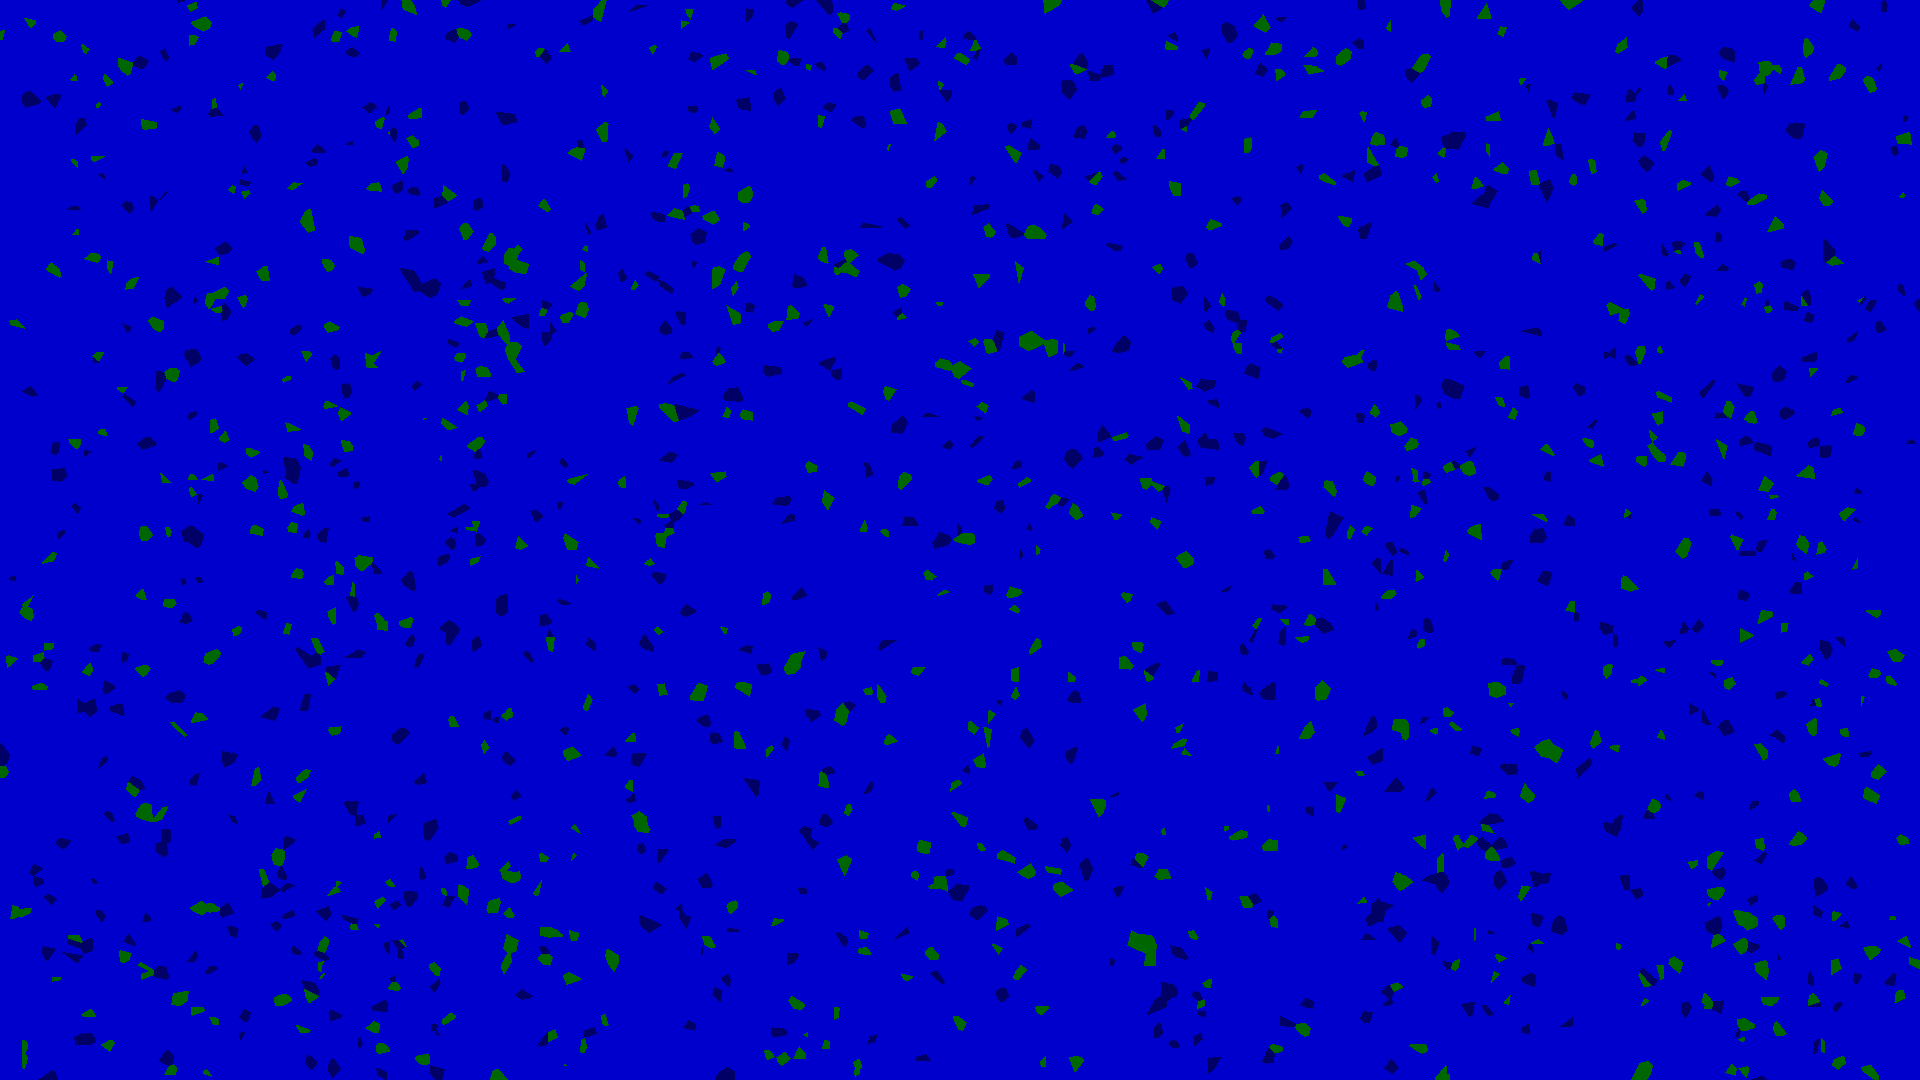
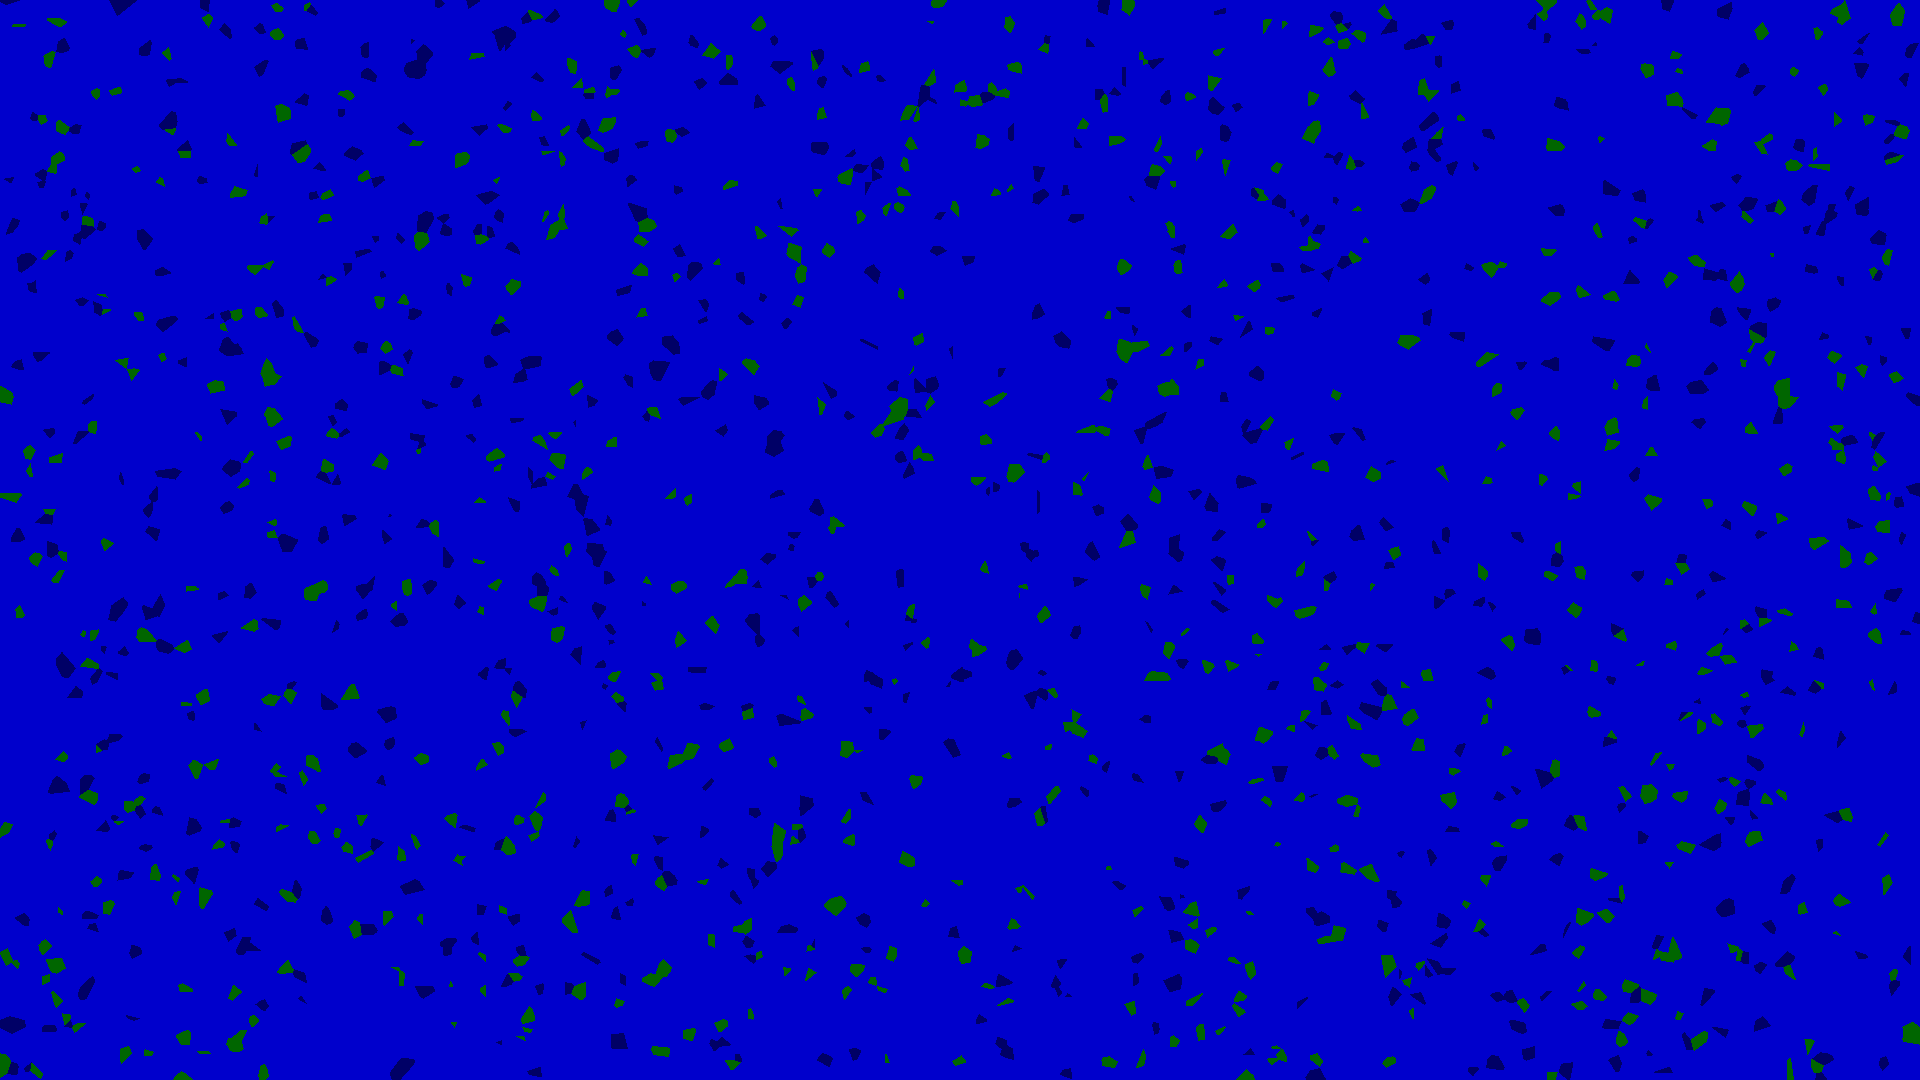
improve speed by removing global read-only variables

diff --git a/map_maker.py b/map_maker.py
@@ -74,39 +74,23 @@ def raise_error(location, traceback_output, notes = None):
 # Multiprocessing Functions
 # (Order of use)
 
-def initialize_pool(section_progress_value,
-dots_value, width_value, height_value, processes_value, start_time_value,
-island_abundance_value, island_size_value, relative_island_abundance_value,
-image_sections_value, lock_value):
+def initialize_pool(section_progress_value, dots_value, image_sections_value, lock_value):
     
     global section_progress
     global dots
-    global width
-    global height
-    global processes
-    global start_time
-    global island_abundance
-    global island_size
-    global relative_island_abundance
-    global current_section_progress
     global image_sections
     global lock
 
     section_progress = section_progress_value
     dots = dots_value
-    width = width_value
-    height = height_value
-    processes = processes_value
-    start_time = start_time_value
-    island_abundance = island_abundance_value
-    island_size = island_size_value
-    relative_island_abundance = relative_island_abundance_value
     image_sections = image_sections_value
     lock = lock_value
 
-def track_progress(section_progress, section_progress_total, start_time, section_times):
+def track_progress(section_progress, section_progress_total, start_time):
 
     try:
+
+        section_times = [0.0, 0.0, 0.0, 0.0]
 
         while True:
 
@@ -130,7 +114,7 @@ def track_progress(section_progress, section_progress_total, start_time, section
                 if section_progress[i] == section_progress_total[i]:
                     color = ANSI_GREEN
                 else:
-                    section_times[i] = time.time() - start_time.value
+                    section_times[i] = time.time() - start_time
                     section_times[i] -= sum(section_times[ii] for ii in range(i))
                     color = ANSI_BLUE
                 print(
@@ -153,7 +137,7 @@ def track_progress(section_progress, section_progress_total, start_time, section
                 "{:.2f}% ".format(total_progress * 100).rjust(8) +
                 ANSI_GREEN + "█" * round(total_progress * 20) +
                 ANSI_BLUE + "█" * (20 - round(total_progress * 20)) +
-                ANSI_RESET + " " + format_time(time.time() - start_time.value)
+                ANSI_RESET + " " + format_time(time.time() - start_time)
             )
 
             print(str(section_progress[0]))
@@ -170,7 +154,7 @@ def track_progress(section_progress, section_progress_total, start_time, section
     except:
         raise_error("track_progress", traceback.format_exc())
 
-def generate_sections(coords):
+def generate_sections(coords, relative_island_abundance, width):
 
     try:
 
@@ -179,11 +163,11 @@ def generate_sections(coords):
         for coord in coords:
 
             dot_type = "Water"
-            if random.randint(1, relative_island_abundance.value) == 1:
+            if random.randint(1, relative_island_abundance) == 1:
                 dot_type = "Land Origin"
-            elif random.randint(1, (relative_island_abundance.value - 1)) == 1:
+            elif random.randint(1, (relative_island_abundance - 1)) == 1:
                 dot_type = "Water Forced"
-            local_dots.append(Dot(coord % width.value, coord // width.value, dot_type))
+            local_dots.append(Dot(coord % width, coord // width, dot_type))
 
             with lock:
                 section_progress[0] += 1
@@ -198,12 +182,12 @@ def generate_sections(coords):
 def copy_piece(piece):
     return list(piece)
 
-def generate_image(start_height, section_height, process_num, local_dots):
+def generate_image(start_height, section_height, process_num, local_dots, width):
 
     try:
 
         image_local = (
-            PIL.Image.new("RGB", (width.value, section_height), (255, 153, 194))
+            PIL.Image.new("RGB", (width, section_height), (255, 153, 194))
         )
         pixels = image_local.load()
         dot_coords = []
@@ -213,9 +197,9 @@ def generate_image(start_height, section_height, process_num, local_dots):
 
         for y in range(section_height):
 
-            indexes = tree.query([(x, y + start_height) for x in range(width.value)])[1]
+            indexes = tree.query([(x, y + start_height) for x in range(width)])[1]
 
-            for x in range(width.value):
+            for x in range(width):
 
                 pixel_type = "Error"
                 pixel_type = local_dots[indexes[x]].type
@@ -257,10 +241,10 @@ if __name__ == "__main__":
         "Welcome to MapMaker v1.0\n" + 
         "\nMap Width:"
     )
-    width_input = get_int(100, 10_000)
+    width = get_int(100, 10_000)
 
     print("\nMap Height:")
-    height_input = get_int(100, 10_000)
+    height = get_int(100, 10_000)
 
     print(
         "\nIsland abundance controls how many islands are generated.\n" +
@@ -268,7 +252,7 @@ if __name__ == "__main__":
         "Larger numbers produce fewer islands.\n" +
         "Island Abundance:"
     )
-    island_abundance_input = get_int(50, 1000)
+    island_abundance = get_int(50, 1000)
 
     print(
         "\nIsland size controls average island size.\n" +
@@ -276,7 +260,7 @@ if __name__ == "__main__":
         "Larger numbers produce larger islands.\n" +
         "Island Size:"
     )
-    island_size_input = get_int(10, 100)
+    island_size = get_int(10, 100)
 
     print(
         "\nRelative island abundance controls the ratio of land to water.\n" +
@@ -284,7 +268,7 @@ if __name__ == "__main__":
         "Larger numbers produces more land.\n" +
         "Relative Island Abundance:"
     )
-    relative_island_abundance_input = get_int(10, 100)
+    relative_island_abundance = get_int(10, 100)
 
     print(
         "\nNow you must choose how many of your CPU's threads to use for map generation.\n" +
@@ -295,7 +279,9 @@ if __name__ == "__main__":
         "high temperatures occur. Using fewer threads may reduce temperatures.\n" +
         "Number of Threads:"
     )
-    processes_input = get_int(1, 32)
+    processes = get_int(1, 32)
+
+    start_time = time.time()
 
     clear_screen()
 
@@ -308,73 +294,65 @@ if __name__ == "__main__":
     section_progress = multiprocessing.Array(ctypes.c_int, [0, 0, 0, 0])
     section_progress_total = multiprocessing.Array(ctypes.c_int, [0, 0, 0, 0])
     dots = manager.list([])
-    width = multiprocessing.Value(ctypes.c_int, width_input)
-    height = multiprocessing.Value(ctypes.c_int, height_input)
-    processes = multiprocessing.Value(ctypes.c_int, processes_input)
-    start_time = multiprocessing.Value(ctypes.c_double, time.time())
     section_times = multiprocessing.Array(ctypes.c_double, [0.0, 0.0, 0.0, 0.0])
-    island_abundance = multiprocessing.Value(ctypes.c_int, island_abundance_input)
-    island_size = multiprocessing.Value(ctypes.c_int, island_size_input)
-    relative_island_abundance = multiprocessing.Value(ctypes.c_int, relative_island_abundance_input)
-    image_sections = manager.list([PIL.Image.new("RGB", (100, 100), (255, 0, 102))] * processes.value)
+    image_sections = manager.list([PIL.Image.new("RGB", (100, 100), (255, 0, 102))] * processes)
     lock = multiprocessing.Lock()
 
-    with multiprocessing.Pool(processes_input, initializer = initialize_pool, initargs =
-    (section_progress, dots, width, height, processes, start_time,
-    island_abundance, island_size, relative_island_abundance, image_sections, lock)) as pool:
+    with multiprocessing.Pool(processes, initializer = initialize_pool, initargs =
+    (section_progress, dots, image_sections, lock)) as pool:
 
         try:
 
             # Progress Tracking
 
             tracker_process = multiprocessing.Process(target = track_progress,
-                args = (section_progress, section_progress_total, start_time, section_times))
+                args = (section_progress, section_progress_total, start_time))
             tracker_process.start()
 
             # Section Generation
 
-            num_dots = width_input * height_input // island_abundance_input
+            num_dots = width * height // island_abundance
             section_progress_total[0] = num_dots
 
             results = []
 
-            coords = random.sample(range(0, width_input * height_input), num_dots)
-            coord_sections = [coords[i : i + num_dots // processes_input] for i in range(0, num_dots, num_dots // processes_input)]
-            if num_dots % processes_input != 0:
+            coords = random.sample(range(0, width * height), num_dots)
+            coord_sections = [coords[i : i + num_dots // processes] for i in range(0, num_dots, num_dots // processes)]
+            if num_dots % processes != 0:
                 coord_sections[-2].extend(coord_sections[-1])
                 coord_sections.pop()
     
-            for i in range(processes_input):
-                results.append(pool.apply_async(generate_sections, (coord_sections[i], )))
+            for i in range(processes):
+                results.append(pool.apply_async(generate_sections, (coord_sections[i], relative_island_abundance, width)))
             [result.wait() for result in results]
 
             # Image Generation
 
-            section_progress_total[3] = height_input
+            section_progress_total[3] = height
 
             results = []
 
-            start_heights = list(range(0, height_input, height_input // processes_input))
-            section_heights = [height_input // processes_input] * (processes_input - 1)
-            section_heights.append(height_input - sum(section_heights))
+            start_heights = list(range(0, height, height // processes))
+            section_heights = [height // processes] * (processes - 1)
+            section_heights.append(height - sum(section_heights))
 
             local_dots = []
-            pieces = [dots[i : i + len(dots) // processes_input] for i in range(0, len(dots), len(dots) // processes_input)]
+            pieces = [dots[i : i + len(dots) // processes] for i in range(0, len(dots), len(dots) // processes)]
             results = pool.map(copy_piece, pieces)
             for result in results:
                 local_dots.extend(result)
 
             results = []
 
-            for i in range(processes_input):
-                results.append(pool.apply_async(generate_image, (start_heights[i], section_heights[i], i, local_dots)))
+            for i in range(processes):
+                results.append(pool.apply_async(generate_image, (start_heights[i], section_heights[i], i, local_dots, width)))
             [result.wait() for result in results]
 
             tracker_process.join()
 
             # Image Stitching
 
-            image = PIL.Image.new("RGB", (width_input, height_input), (255, 51, 133))
+            image = PIL.Image.new("RGB", (width, height), (255, 51, 133))
             shift = 0
             for section in image_sections:
                 image.paste(section, (0, shift))
@@ -386,5 +364,5 @@ if __name__ == "__main__":
 
     print(
         ANSI_GREEN + "Generation Complete " + ANSI_RESET +
-        format_time(time.time() - start_time.value)
+        format_time(time.time() - start_time)
     )